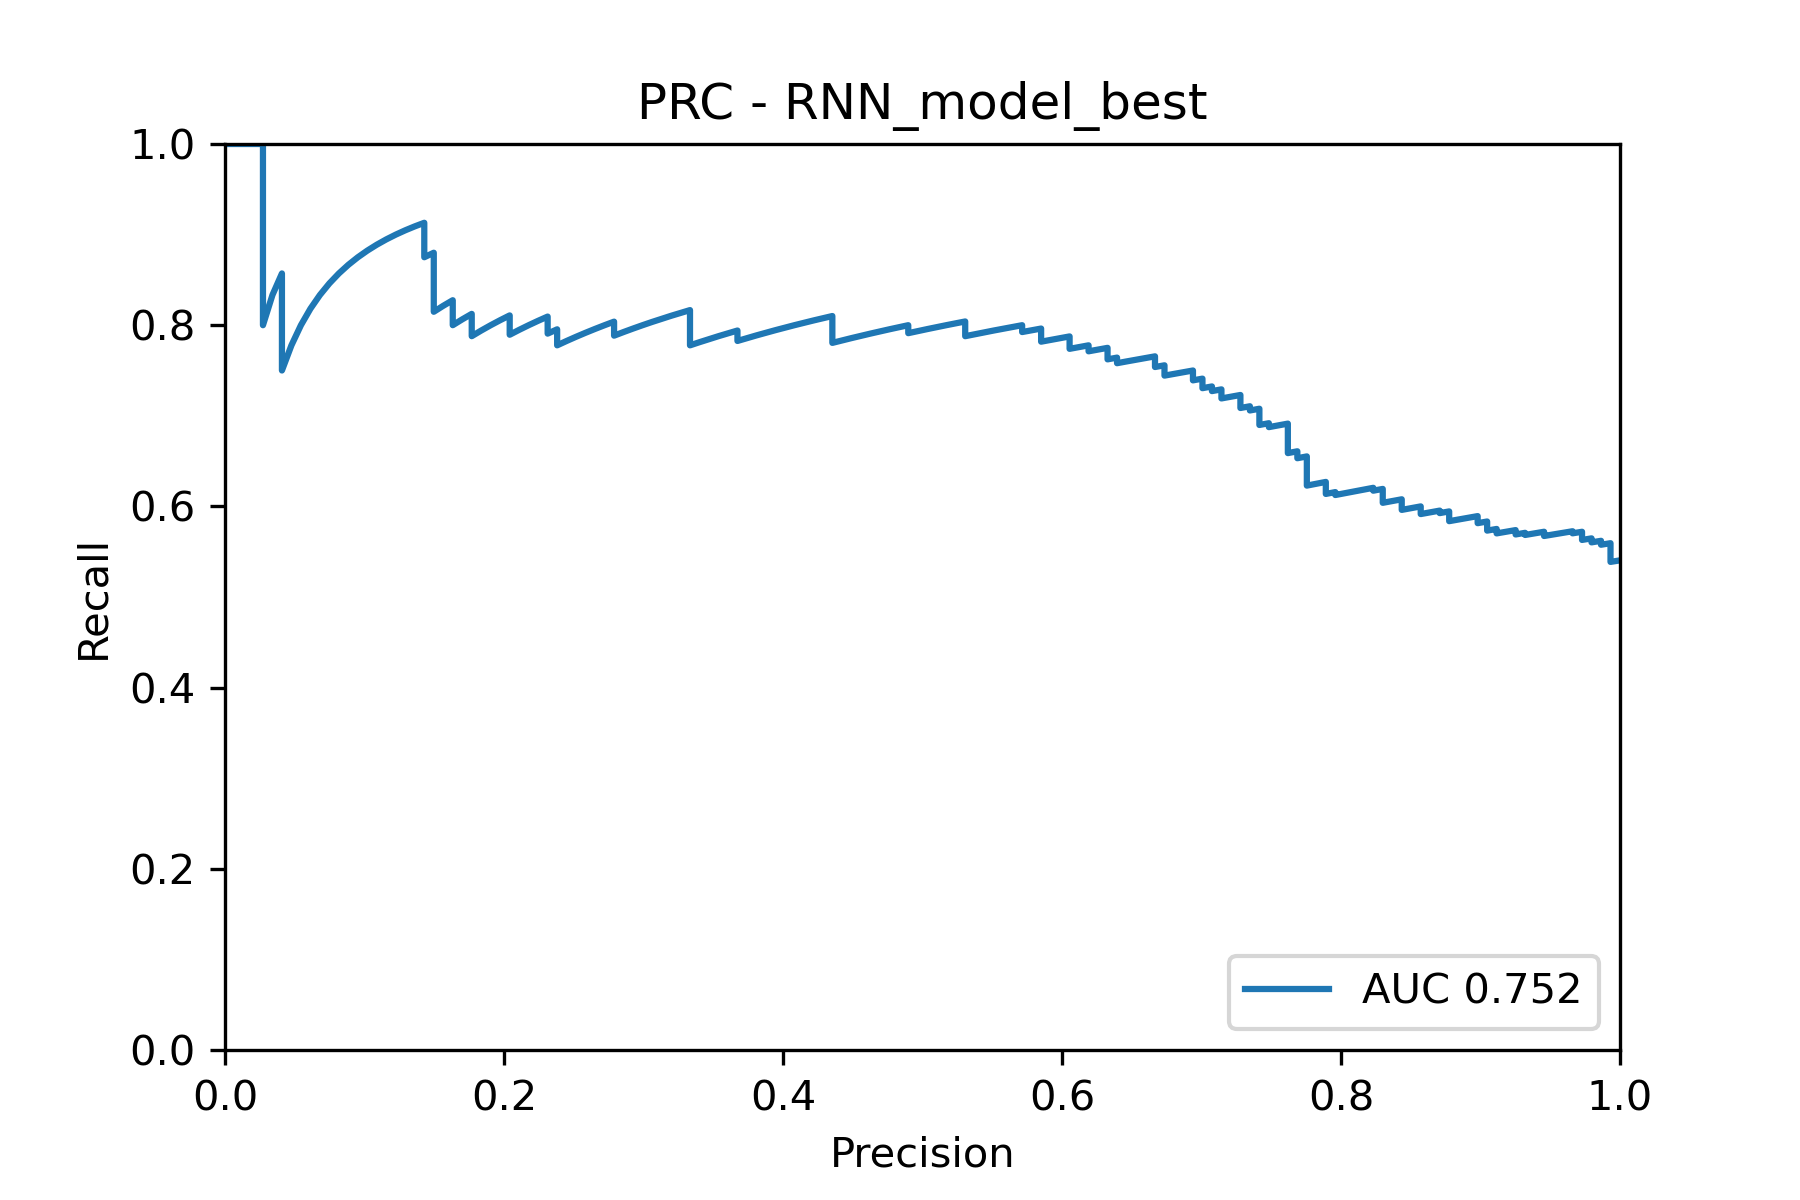
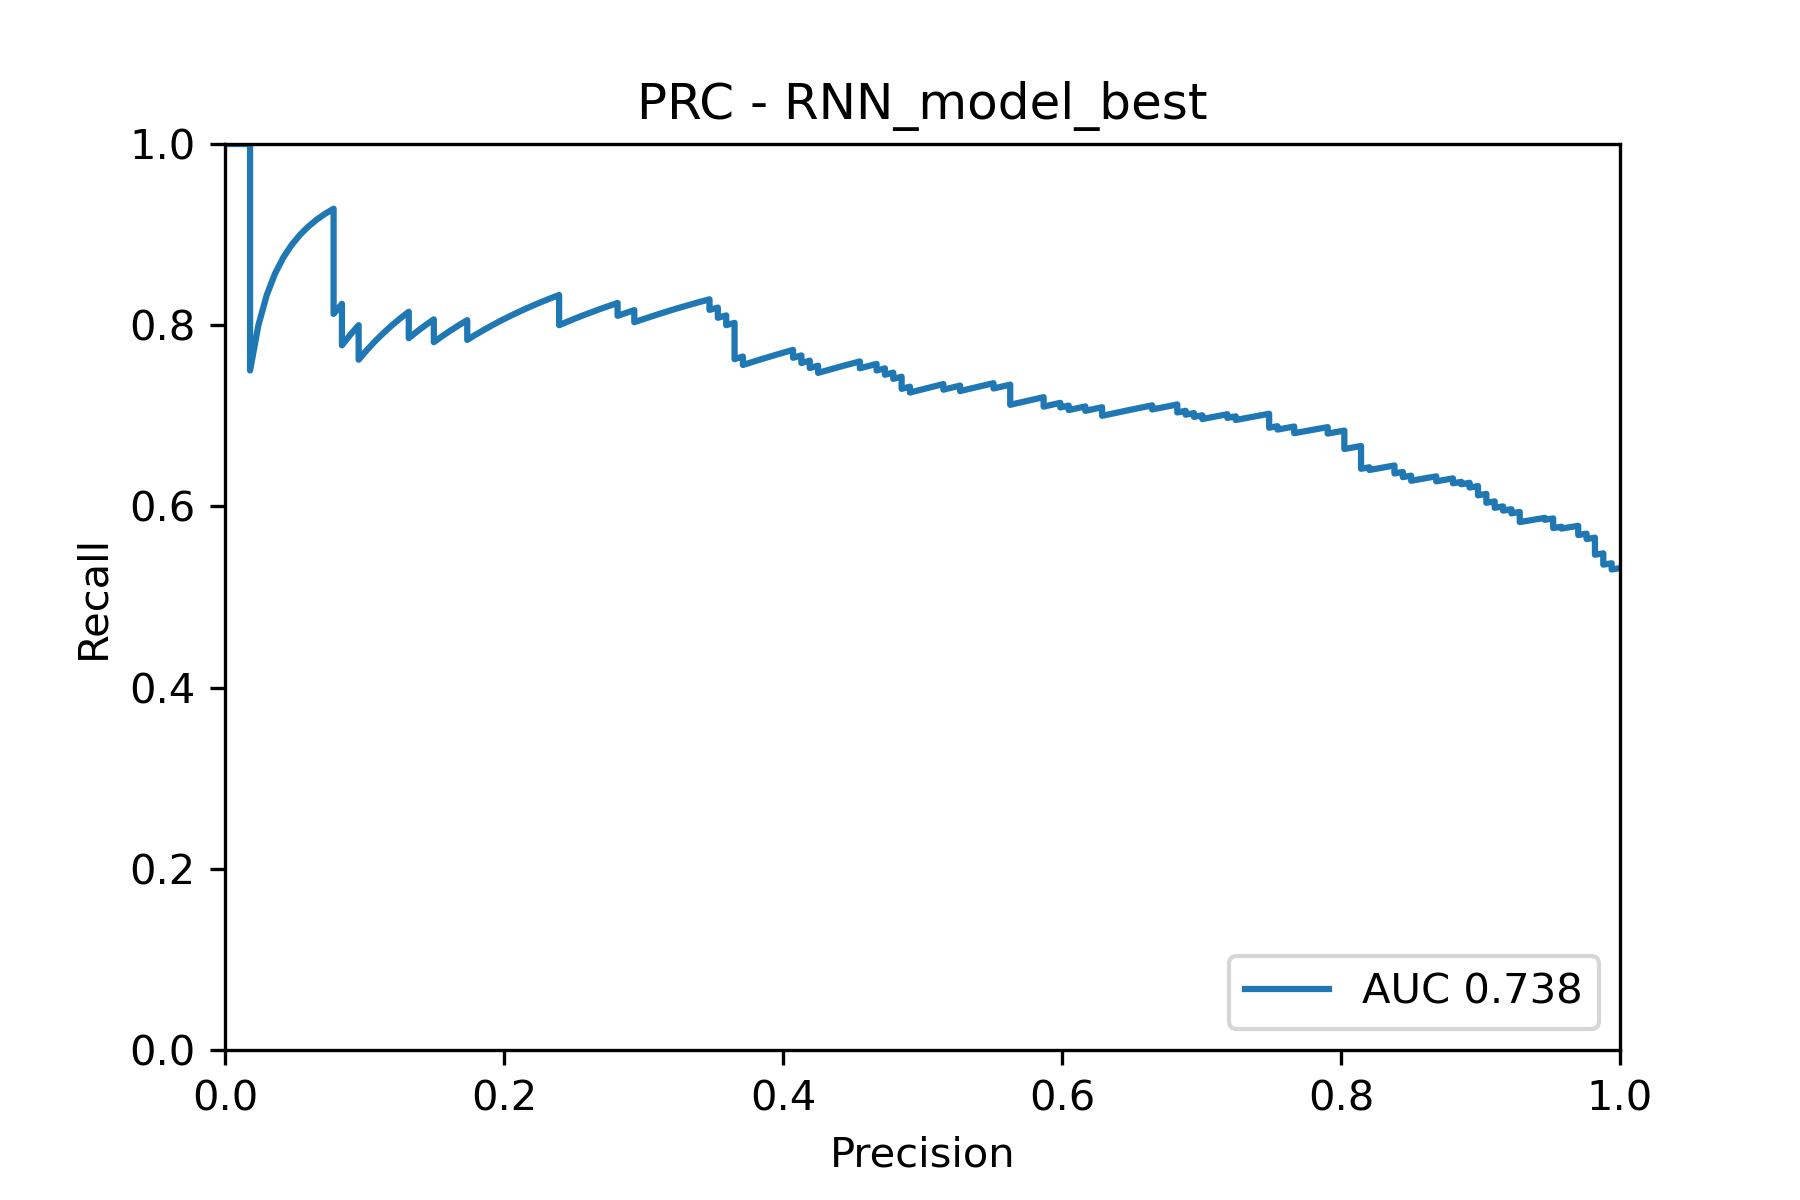
changes to hyper-parameteroptimization

Changed region(s): [[0.1244, 0.1233, 0.4978, 0.3083], [0.4978, 0.2467, 0.9022, 0.4933], [0.84, 0.8017, 0.8711, 0.8325]]

diff --git a/notebooks/model_structures.py b/notebooks/model_structures.py
@@ -659,14 +659,14 @@ class best_FFN(nn.Module):
 
         return torch.sigmoid(L_3_act)
 
-peptide_length_RNN = 9
+peptide_length_RNN = 10
 encoding_dimensions_RNN = 12
 HLA_length_best_ffn = 34
 
 # define network
 class best_RNN(nn.Module):
 
-    def __init__(self,drop_out_rate,RNN_encodings):
+    def __init__(self,dropout_rate=0.4,RNN_encodings=10):
         super(best_RNN, self).__init__()
         RNN_encoding_dim = RNN_encodings
         
@@ -678,7 +678,7 @@ class best_RNN(nn.Module):
         in_dimensions_L_in = peptide_length_RNN*RNN_encoding_dim*2 + HLA_length_best_ffn*RNN_encoding_dim*2
         out_dimension_L_in = int(in_dimensions_L_in/2)
         
-        self.drop_out = nn.Dropout(p=0.4)
+        self.drop_out = nn.Dropout(p=dropout_rate)
         self.L_in = Linear(in_features = in_dimensions_L_in, # 528 if binding_score None, else 529
                             out_features= out_dimension_L_in)
 
@@ -1086,8 +1086,6 @@ class MultiheadAttention(nn.Module):
         self.num_heads = num_heads
         self.head_dim = embed_dim // num_heads
 
-        # Stack all weight matrices 1...h together for efficiency
-        # Note that in many implementations you see "bias=False" which is optional
         self.qkv_proj = nn.Linear(input_dim, 3*embed_dim)
         self.o_proj = nn.Linear(embed_dim, embed_dim)
 
@@ -1119,8 +1117,6 @@ class MultiheadAttention(nn.Module):
             return o, attention
         else:
             return o
-
-
 
 
 peptide_length_combined = 10
